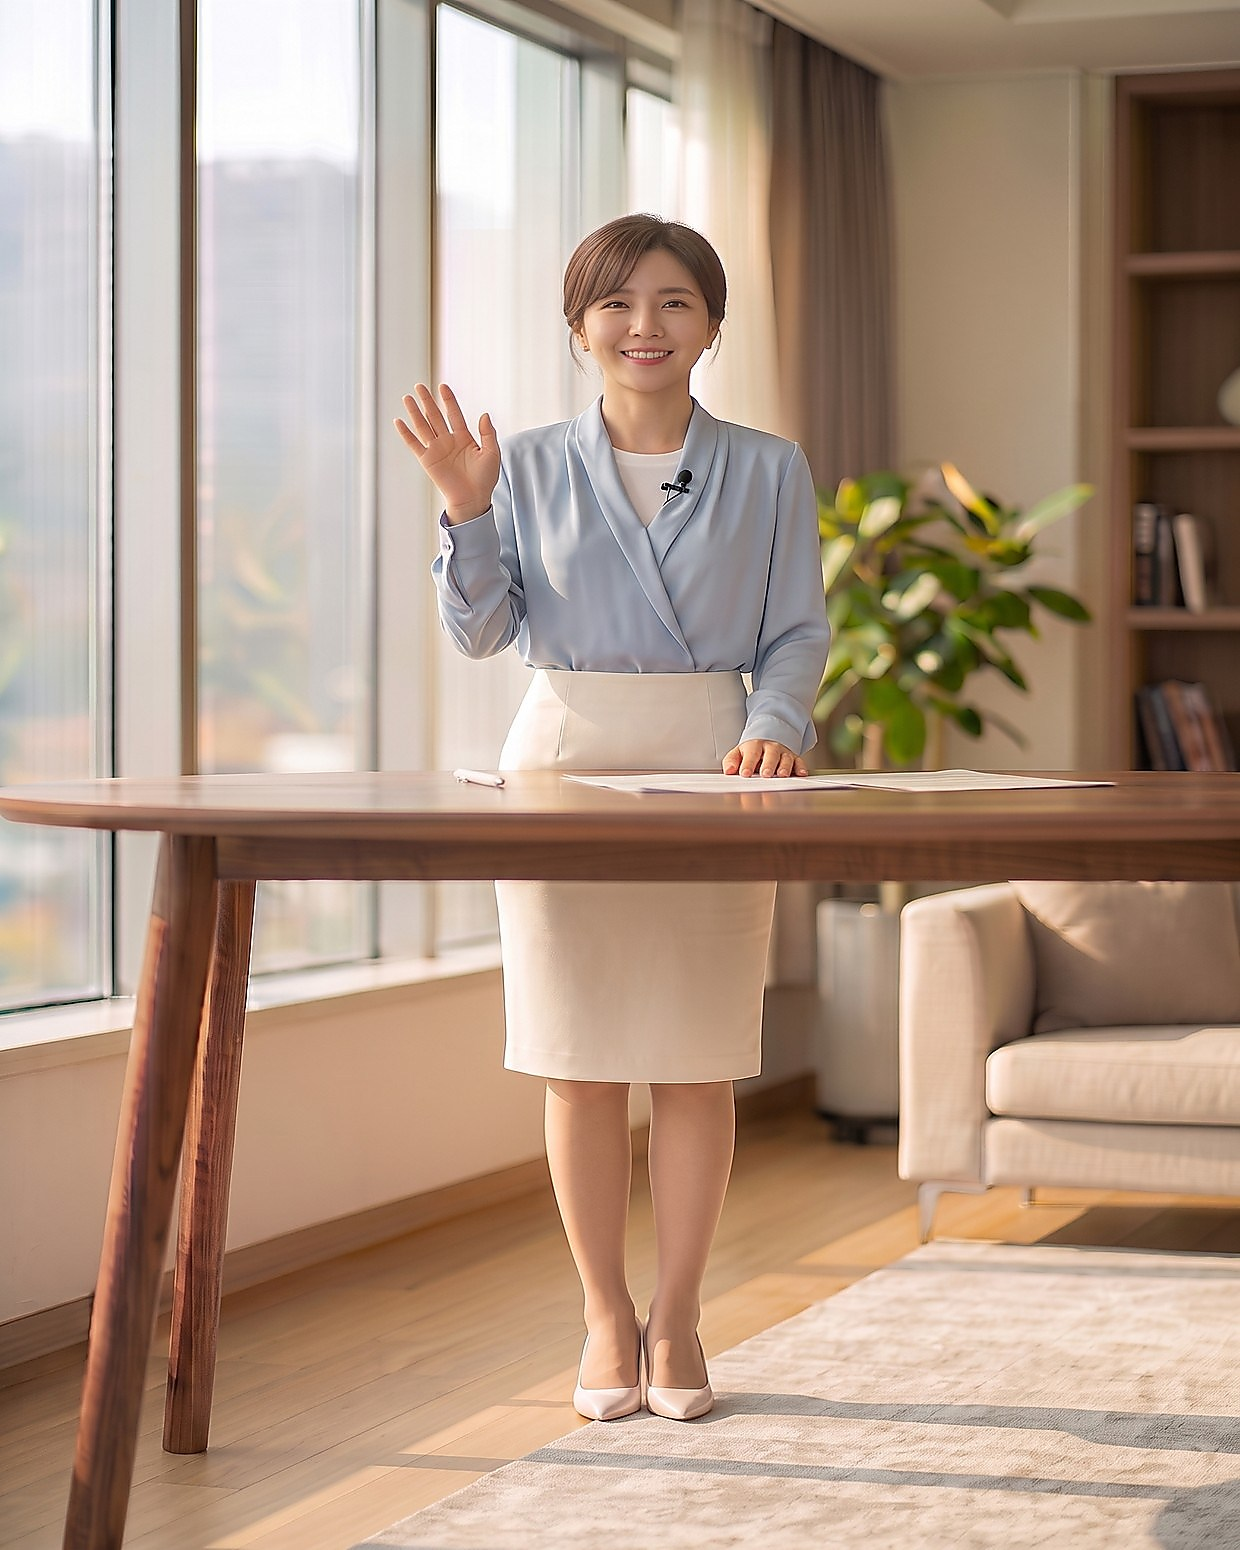
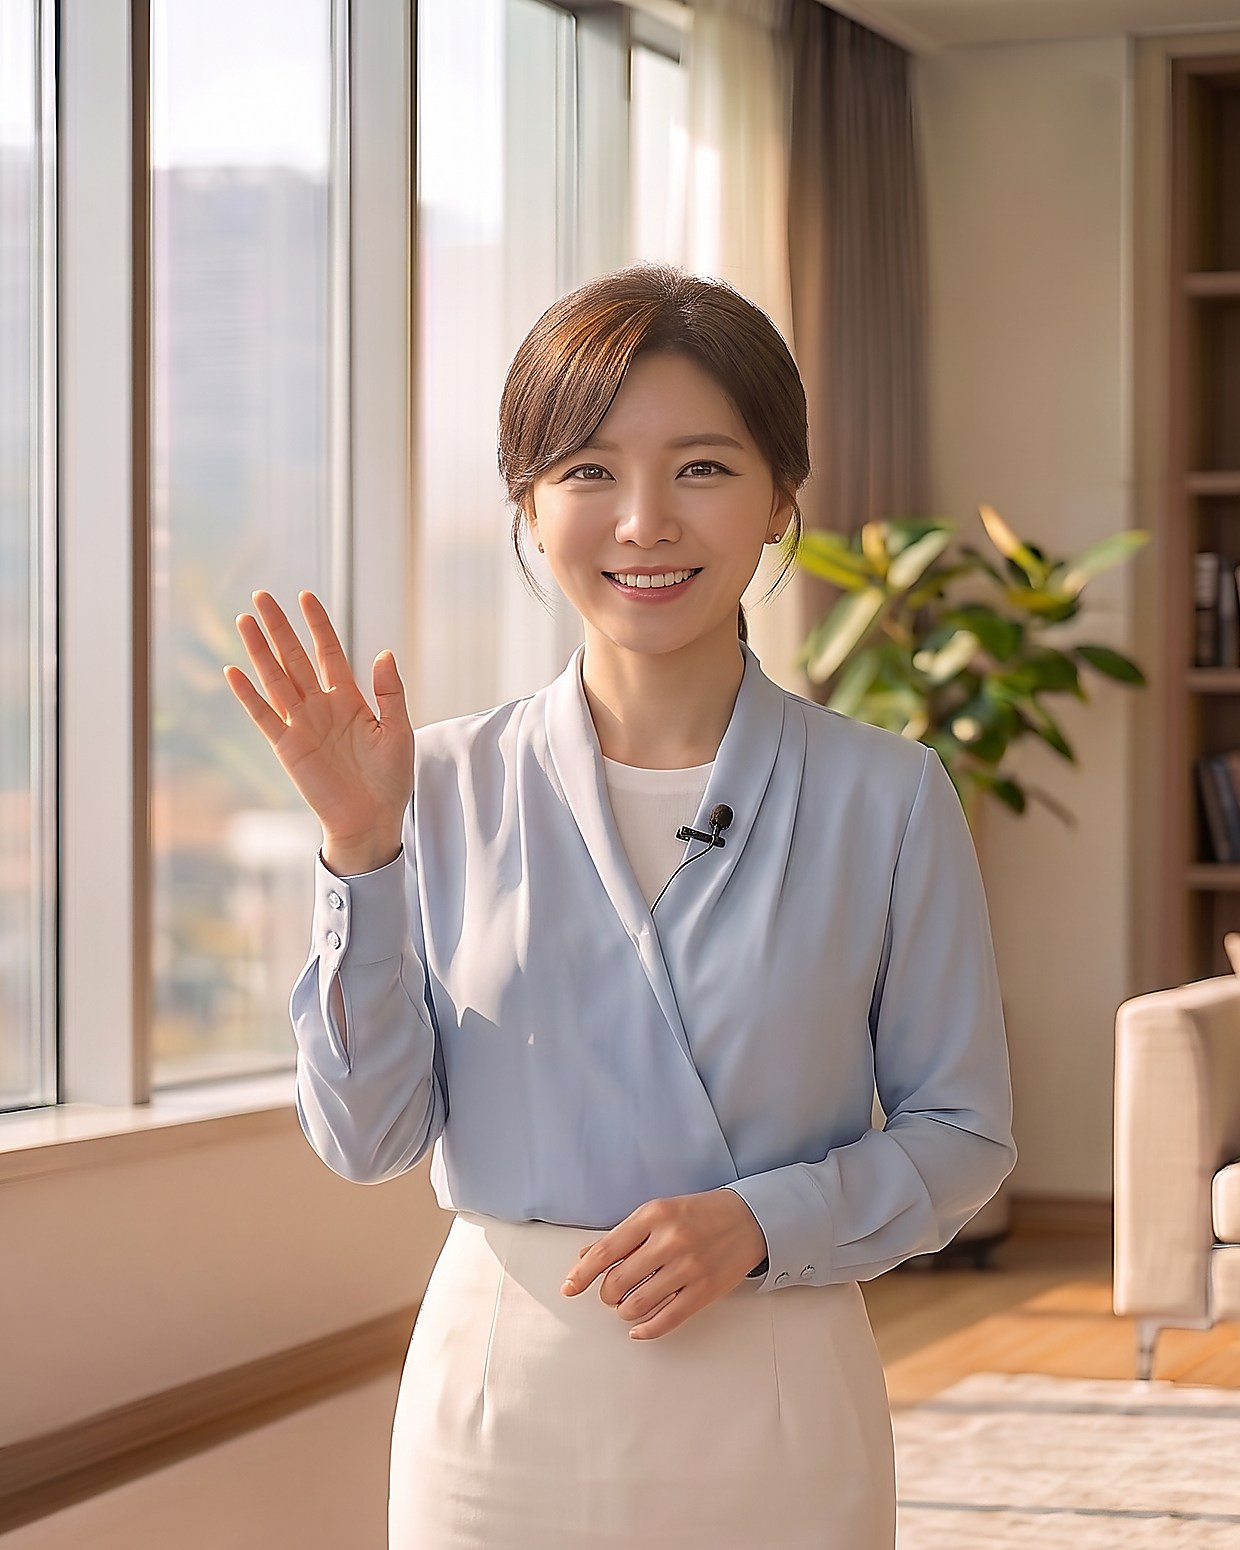
오프닝: 송은채2 인사 사진을 새 상반신 사진으로 (확대 없이)
Claude-Session: https://claude.ai/code/session_01BaSwwFaacEUtQjFXGJUdho

diff --git a/index.html b/index.html
@@ -34,7 +34,7 @@ try{var _hh=JSON.parse(localStorage.getItem('omaju.hello')||'null');if(_hh&&_hh.
 <link rel="preconnect" href="https://fonts.googleapis.com">
 <link rel="preconnect" href="https://fonts.gstatic.com" crossorigin>
 <link rel="stylesheet" href="https://fonts.googleapis.com/css2?family=Nanum+Myeongjo:wght@400;700;800&family=Noto+Sans+KR:wght@300;400;500;700&family=Cormorant+Garamond:ital,wght@0,500;0,600;1,500&family=Allura&family=Gaegu:wght@700&display=swap">
-<link rel="stylesheet" href="css/omaju.css?v=10240800" onerror="(function(l){if(l.dataset.r)return;l.dataset.r=1;var n=document.createElement('link');n.rel='stylesheet';n.href='css/omaju.css?r='+Date.now();l.after(n);})(this)">
+<link rel="stylesheet" href="css/omaju.css?v=10240830" onerror="(function(l){if(l.dataset.r)return;l.dataset.r=1;var n=document.createElement('link');n.rel='stylesheet';n.href='css/omaju.css?r='+Date.now();l.after(n);})(this)">
 </head>
 <body>
 
@@ -365,6 +365,6 @@ try{var _hh=JSON.parse(localStorage.getItem('omaju.hello')||'null');if(_hh&&_hh.
   <span class="rd-bar-btns"><button type="button" class="rd-bar-b" id="rd-bar-pp" aria-pressed="true">잠시 멈춤</button><button type="button" class="rd-bar-b" id="rd-bar-skip">다음 코너</button></span>
 </div>
 <div class="toast" id="toast" hidden></div>
-<script type="module" src="js/app.js?v=10240800"></script>
+<script type="module" src="js/app.js?v=10240830"></script>
 </body>
 </html>

diff --git a/js/opening.js b/js/opening.js
@@ -46,7 +46,9 @@ export async function init({ modal, closeModal, toast, DB }) {
   $('opn-name').innerHTML = `<b>${NAME[host]}</b><i></i><small>오마주 진행</small>`;
   $('opn-next').textContent = data.next_title || '';
   $('opn-nextbox').hidden = !data.next_title;
-  $('opn-stage').innerHTML = tags.map(t => `<i class="opn-shot" data-tag="${t}" style="background-image:url('${img(t)}')"></i>`).join('');
+  // 처음부터 상반신으로 새로 받은 사진은 확대하지 않는다 (대표 2026-10-24 — 은채2 인사 사진부터). 새로 받으면 여기에 이름을 더한다.
+  const UPPER = ['eunchae-mor2-wave'];
+  $('opn-stage').innerHTML = tags.map(t => `<i class="opn-shot" data-tag="${t}"${UPPER.some(u => img(t).includes(u)) ? ' data-up="1"' : ''} style="background-image:url('${img(t)}')"></i>`).join('');
   const au = $('opn-audio');
   let shotI = -1, capI = -1, started = false;
   const show = t => {

diff --git a/sw.js b/sw.js
@@ -1,5 +1,5 @@
 // 오마주 서비스 워커: 앱 설치용. 화면과 코드는 늘 새로 받되, 못 받으면 지난번 것으로 화면을 세운다.
-const VER = 'omaju-v57';   // 진행자 사진을 바꾸면 이 숫자를 올려야 휴대폰이 새 사진을 받는다 (사진은 한 번 받으면 계속 쓰므로)
+const VER = 'omaju-v58';   // 진행자 사진을 바꾸면 이 숫자를 올려야 휴대폰이 새 사진을 받는다 (사진은 한 번 받으면 계속 쓰므로)
 self.addEventListener('install', e => { self.skipWaiting(); });
 self.addEventListener('activate', e => { e.waitUntil(caches.keys().then(ks => Promise.all(ks.filter(k => k !== VER).map(k => caches.delete(k)))).then(() => self.clients.claim())); });
 

diff --git a/js/app.js b/js/app.js
@@ -1397,4 +1397,4 @@ if ('serviceWorker' in navigator) navigator.serviceWorker.register('sw.js').catc
 
 // ── 오늘의 오프닝 (미소·한결) ──
 import('./hometown.js?v=10221640').then(m => { m.init({ toast, modal, closeModal, esc, store, DB }); m.load(); }).catch(e => console.warn('hometown', e));
-import('./opening.js?v=10240445').then(m => m.init({ modal, closeModal, toast, DB })).catch(e => console.warn('opening', e));
+import('./opening.js?v=10240830').then(m => m.init({ modal, closeModal, toast, DB })).catch(e => console.warn('opening', e));

diff --git a/css/omaju.css b/css/omaju.css
@@ -2398,3 +2398,4 @@ html.hello-in .auth-slot > #user-chip[hidden] { display: block !important; }   /
 #detail .bd .cu-kind { margin-top: 4px !important; }
 #detail .cu-pick b { font-family: 'Noto Sans KR', sans-serif !important; font-weight: 800; color: var(--ink); }
 #detail .cu-pick { border-radius: 14px; }
+.opn-shot[data-up="1"] { background-size: cover; background-position: center top; }   /* 상반신으로 새로 받은 사진은 확대 없이 (2026-10-24) */
